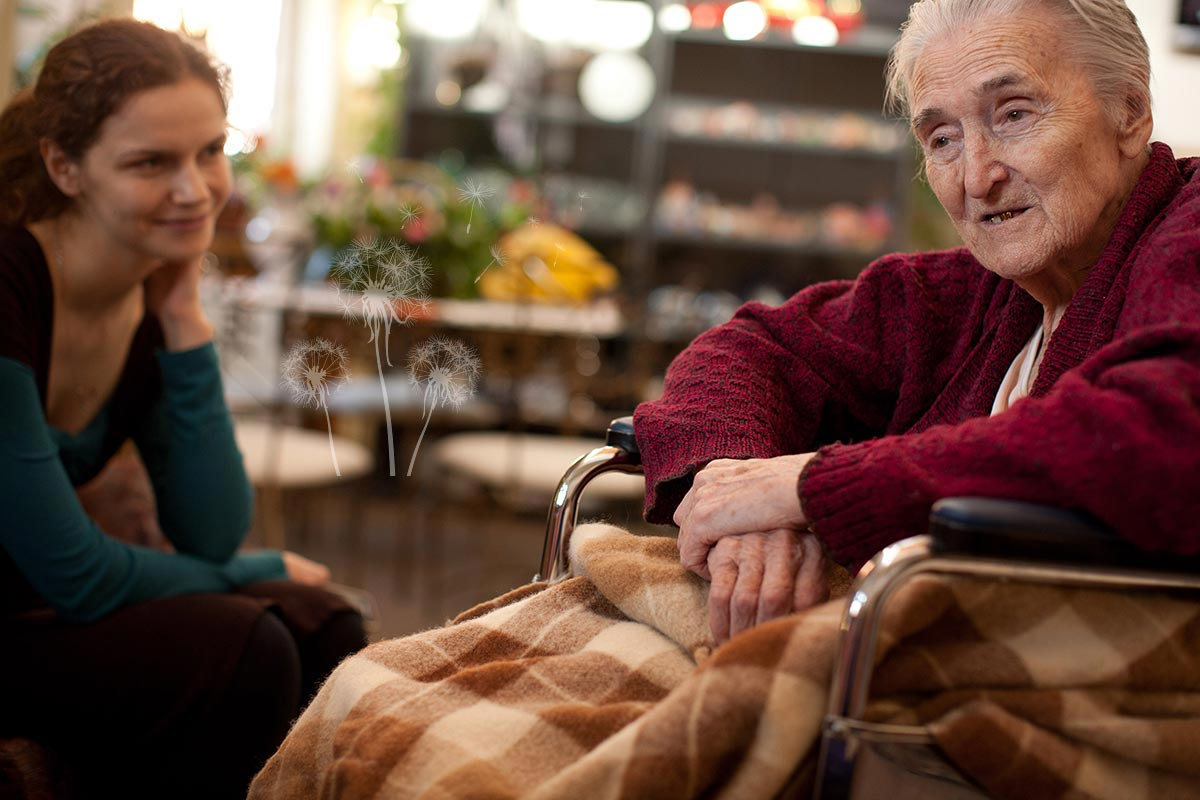
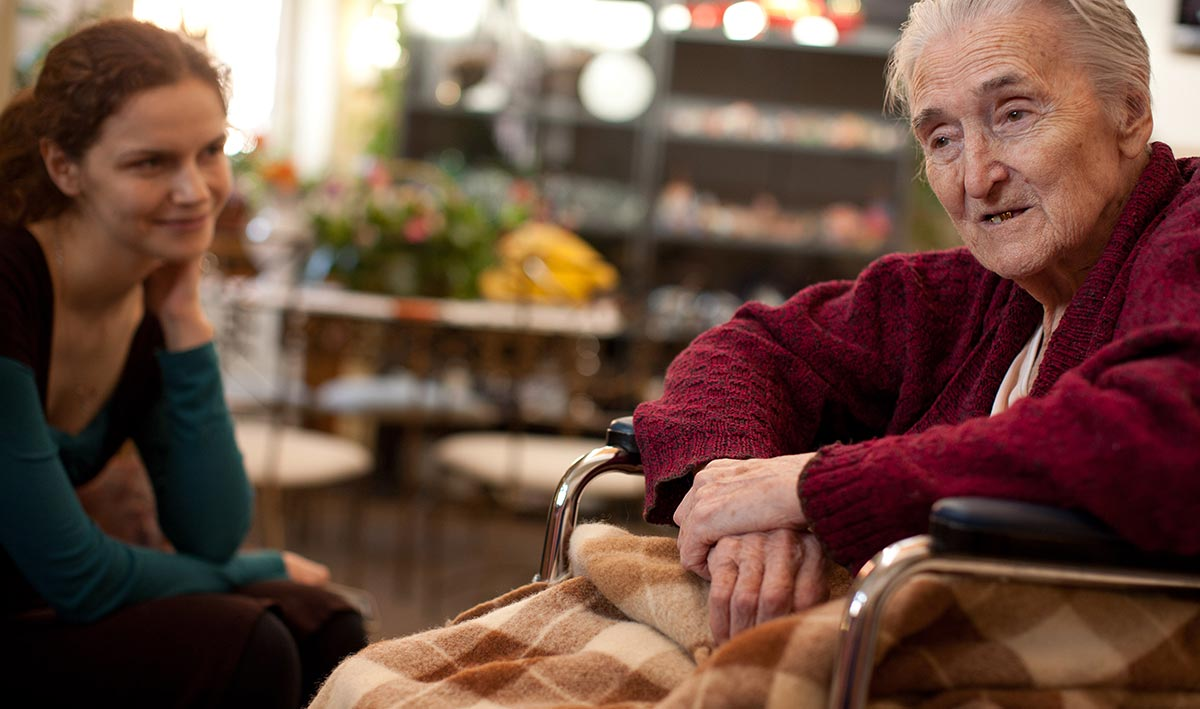
misc

diff --git a/index.html b/index.html
@@ -69,46 +69,14 @@
 			font-size: 15px;
 		}
 
-    /* Special class on .container surrounding .navbar, used for positioning it into place. */
-    .navbar-wrapper {
-      position: absolute;
-      top: 0;
-      left: 0;
-      right: 0;
-      z-index: 10;
-      margin-top: 20px;
-      margin-bottom: -90px; /* Negative margin to pull up carousel. 90px is roughly margins and height of navbar. */
+    .dandelion .span4 {
+    	position: absolute;
+    	height: 500px;
+    	background-image:url('assets/dendel_bg_l.png');
+    	background-repeat:no-repeat;
+			background-position:left bottom;
+    	z-index: 8;
     }
-    .navbar-wrapper .navbar {
-
-    }
-
-    /* Remove border and change up box shadow for more contrast */
-    .navbar .navbar-inner {
-      border: 0;
-      -webkit-box-shadow: 0 2px 10px rgba(0,0,0,.25);
-         -moz-box-shadow: 0 2px 10px rgba(0,0,0,.25);
-              box-shadow: 0 2px 10px rgba(0,0,0,.25);
-    }
-
-    /* Downsize the brand/project name a bit */
-    .navbar .brand {
-      padding: 14px 20px 16px; /* Increase vertical padding to match navbar links */
-      font-size: 16px;
-      font-weight: bold;
-      text-shadow: 0 -1px 0 rgba(0,0,0,.5);
-    }
-
-    /* Navbar links: increase padding for taller navbar */
-    .navbar .nav > li > a {
-      padding: 15px 20px;
-    }
-
-    /* Offset the responsive button for proper vertical alignment */
-    .navbar .btn-navbar {
-      margin-top: 10px;
-    }
-
 
 
     /* CUSTOMIZE THE CAROUSEL
@@ -353,6 +321,12 @@
       </div>
     </div>
 
+		<div class="container dandelion">
+    	<div class="row">
+    		<div class="span4 offset8">
+    		</div>
+    	</div>
+    </div>
 
     <!-- Carousel
     ================================================== -->
@@ -364,8 +338,8 @@
             <div class="carousel-caption">
             	<div class="row">
             		<div class="span6 offset4">
-              		<h1>Хоспис - это дом любви,</h1>
-              		<p class="lead">место, где совершенно бесплатно помогают больным с диагнозом "рак" и их близким.</p>
+              		<h1>Если человека нельзя вылечить,</h1>
+              		<p class="lead">это не значит, что ему нельзя помочь</p>
               	</div>
             	</div>
             </div>
@@ -376,9 +350,9 @@
           <div class="container">
             <div class="carousel-caption">
             	<div class="row">
-            		<div class="span6 offset4">
-              		<h1>Хоспис - это дом любви,</h1>
-              		<p class="lead">место, где совершенно бесплатно помогают больным с диагнозом "рак" и их близким.</p>
+            		<div class="span7 offset4">
+              		<p class="lead">Если человека нельзя вылечить,</p>
+              		<h1>это не значит, что ему нельзя помочь.</h1>
               	</div>
             	</div>
             </div>
@@ -390,6 +364,32 @@
             <div class="carousel-caption">
             	<div class="row">
             		<div class="span6 offset4">
+              		<h1>Хоспис - это</h1>
+              		<p class="lead">комфортные условия и достойная жизнь до конца.</p>
+              	</div>
+            	</div>
+            </div>
+          </div>
+        </div>
+        <div class="item">
+          <img src="assets/4.jpg" alt="">
+          <div class="container">
+            <div class="carousel-caption">
+            	<div class="row">
+            		<div class="span6 offset4">
+              		<h1>Хоспис – это дом,</h1>
+              		<p class="lead">где берегут жизнь, как бы мало ее ни осталось.</p>
+              	</div>
+            	</div>
+            </div>
+          </div>
+        </div>
+        <div class="item">
+          <img src="assets/5.jpg" alt="">
+          <div class="container">
+            <div class="carousel-caption">
+            	<div class="row">
+            		<div class="span6 offset4">
               		<h1>Хоспис - это дом любви,</h1>
               		<p class="lead">место, где совершенно бесплатно помогают больным с диагнозом "рак" и их близким.</p>
               	</div>
@@ -398,7 +398,46 @@
           </div>
         </div>
         <div class="item">
-          <img src="assets/4.jpg" alt="">
+          <img src="assets/6.jpg" alt="">
+          <div class="container">
+            <div class="carousel-caption">
+            	<div class="row">
+            		<div class="span6 offset4">
+              		<h1>Хоспис - это дом любви,</h1>
+              		<p class="lead">место, где совершенно бесплатно помогают больным с диагнозом "рак" и их близким.</p>
+              	</div>
+            	</div>
+            </div>
+          </div>
+        </div>
+        <div class="item">
+          <img src="assets/7.jpg" alt="">
+          <div class="container">
+            <div class="carousel-caption">
+            	<div class="row">
+            		<div class="span6 offset4">
+              		<h1>Хоспис - это дом любви,</h1>
+              		<p class="lead">место, где совершенно бесплатно помогают больным с диагнозом "рак" и их близким.</p>
+              	</div>
+            	</div>
+            </div>
+          </div>
+        </div>
+        <div class="item">
+          <img src="assets/8.jpg" alt="">
+          <div class="container">
+            <div class="carousel-caption">
+            	<div class="row">
+            		<div class="span6 offset4">
+            			<p class="lead">Как бы мало времени ни было, его достаточно, чтобы</p>
+              		<h1>сделать все возможное.</h1>
+              	</div>
+            	</div>
+            </div>
+          </div>
+        </div>
+        <div class="item">
+          <img src="assets/9.jpg" alt="">
           <div class="container">
             <div class="carousel-caption">
             	<div class="row">
@@ -427,8 +466,8 @@
       <!-- START THE FEATURETTES -->
       
       <div class="featurette">
-        <h2 class="featurette-heading"> +7 (499) 245-00-03 <span class="muted">info@hospice.ru</span></h2>
-        <p class="lead">Если Вам или Вашим близким необходима консультация врача или медицинской сестры хосписа.</p>
+        <h2 class="featurette-heading"> +7 (499) 245-00-03 <span class="muted">+7 (499) 245-00-09</span></h2>
+        <p class="lead">Круглосуточная консультация хосписа.</p>
       </div>
       
       <hr class="featurette-divider">
@@ -436,18 +475,18 @@
       <!-- Three columns of text below the carousel -->
       <div class="row features">
         <div class="span4">
-          <h2>Что такое Первый Московский Хоспис?</h2>
-          <p><i>Это центр распространения идей помощи умирающим и их семьям, милосердия, сострадания, бескорыстия, добровольчества, благотворительности, достойной жизни до конца...</i></p>
+          <h2>О хосписе</h2>
+          <p><i>Хоспис - это центр распространения идей помощи умирающим и их семьям, милосердия, сострадания, бескорыстия, добровольчества, благотворительности, достойной жизни до конца...</i></p>
           <p><a class="btn" href="http://twitter.github.com/bootstrap/examples/carousel.html#">Подробнее »</a></p>
         </div><!-- /.span4 -->
         <div class="span4">
-          <h2>Что необходимо для постановки на учет?</h2>
+          <h2>Как встать на учет</h2>
           <p><i>Вам необходимо проживать в ЦАО, получить направление в хоспис от районного онколога, а также подробную выписку о заболевании из истории болезни...</i></p>
           <p><a class="btn" href="http://twitter.github.com/bootstrap/examples/carousel.html#">Подробнее »</a></p>
         </div><!-- /.span4 -->
         <div class="span4">
-          <h2>Форма работы и устройство ПМХ</h2>
-          <p><i>Сотрудники хосписа обеспечивают пациентов постоянным уходом; снимают болевой синдром и другие сопутствующие заболеванию симптомы, что требует не только медикаментозной терапии...</i></p>
+          <h2>Справочник</h2>
+          <p><i>Что нужно знать пациентам и их близким, специалистам, работающим в сфере паллиативной помощи и всем-всем-всем...</i></p>
           <p><a class="btn" href="http://twitter.github.com/bootstrap/examples/carousel.html#">Подробнее »</a></p>
         </div><!-- /.span4 -->
       </div><!-- /.row -->
@@ -463,24 +502,24 @@
         		<div class="span4">
         		</div>
             <div class="span4">
-              <a href="#">Что такое ПМХ</a> <br>
-              <a href="#">Что необходимо для постановки на учет</a> <br>
-              <a href="#">Форма работы и устройство</a> <br>
-              <a href="#">Немедицинская помощь</a> <br>
-              <a href="#">Как попасть и что делать</a> <br>
-              <a href="#">Виды помощи</a> <br>
-              <a href="#">Фонд помощи хосписам "Вера"</a> <br>
-              <a href="#">Хосписы РФ</a>
+            	<a href="#">Главная</a> <br>
+          		<a href="#">Что такое хоспис</a> <br>
+          		<a href="#">Услуги</a> <br>
+          		<a href="#">Персонал</a> <br>
+          		<a href="#">Пациенты</a> <br>
+          		<a href="#">Волонтеры</a> <br>
+          		<a href="#">Фото</a> <br>
+          		<a href="#">Видео</a> <br>
             </div>
             <div class="span4">
-              <a href="#">Новости</a> <br>
-              <a href="#">История</a> <br>
-              <a href="#">Хоспис Благодарит</a><br>
-              <a href="#">Справочник</a> <br>
-              <a href="#">Программы обучения</a> <br>
-              <a href="#">Отчетность</a> <br>
-              <a href="#">FAQ</a><br>
-              <a href="#">Контакты</a>
+          		<a href="#">Обучение</a> <br>
+          		<a href="#">Отзывы</a> <br>
+          		<a href="#">Вопросы и ответы</a> <br>
+          		<a href="#">Вера Миллионщикова</a> <br>
+          		<a href="#">Новости</a> <br>
+          		<a href="#">Контакты</a> <br>
+          		<a href="#">Фонд «Вера»</a> <br>
+          		<a href="#">Хосписы РФ</a>
             </div>
         </div>
     </div>
